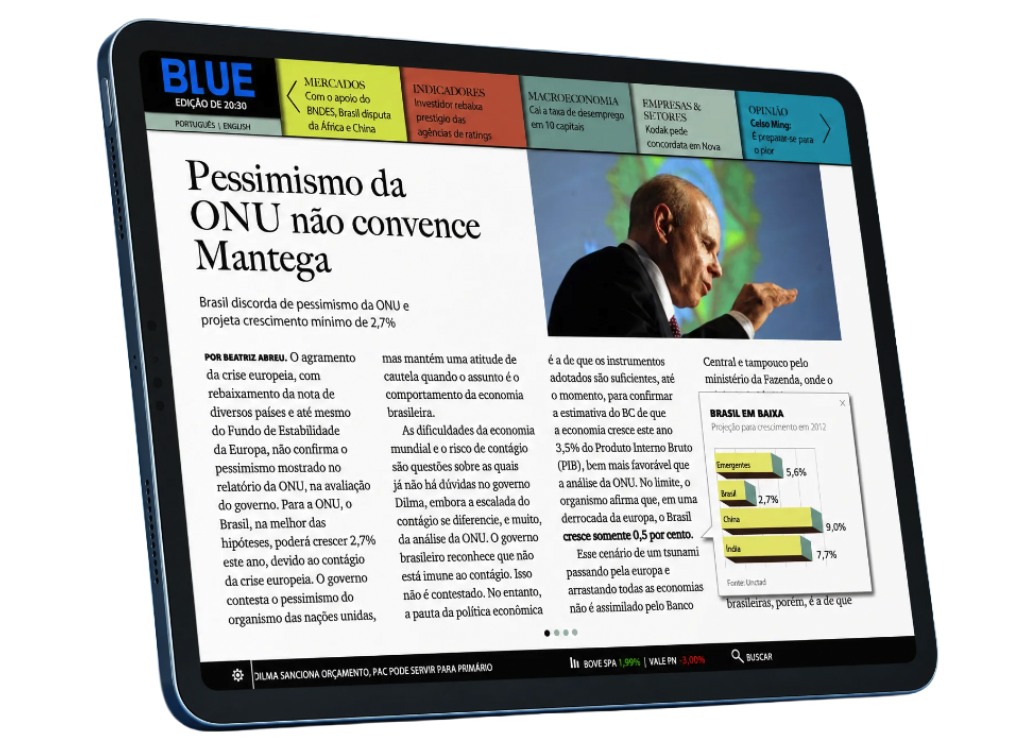
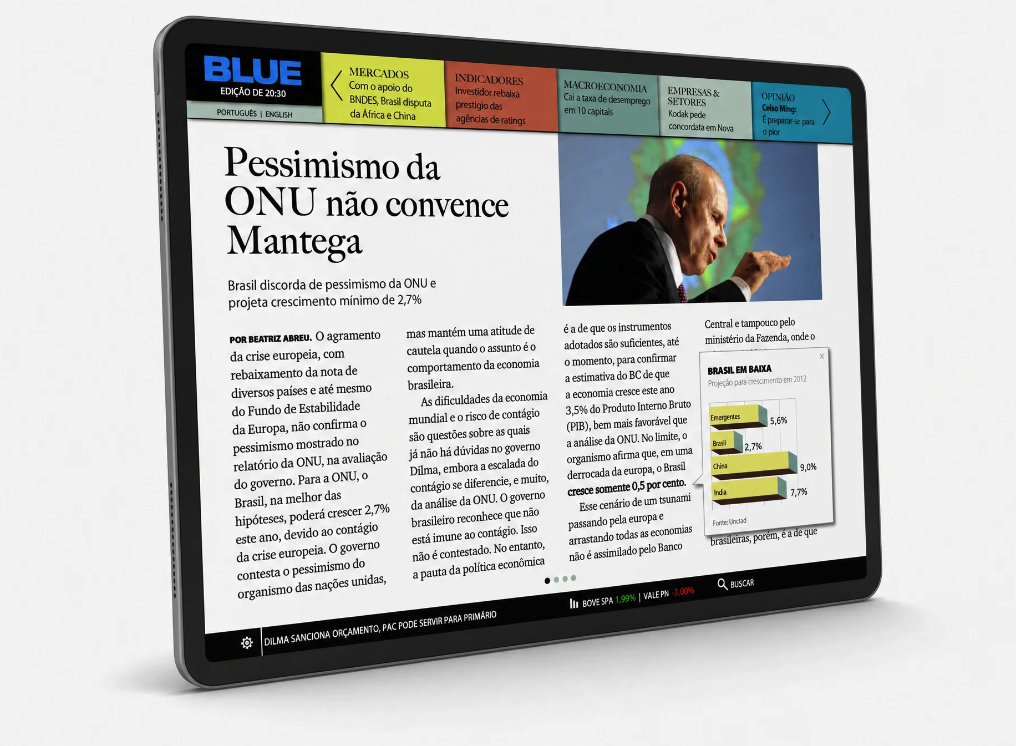
Add editable eyebrows and refresh portfolio translations

diff --git a/src/lib/components/ArchieRenderer.svelte b/src/lib/components/ArchieRenderer.svelte
@@ -1,4 +1,5 @@
 <script>
+	import Eyebrow from '$lib/components/heading/Eyebrow.svelte';
 	import Title from '$lib/components/heading/Title.svelte';
 	import H1 from '$lib/components/heading/H1.svelte';
 	import H2 from '$lib/components/heading/H2.svelte';
@@ -251,6 +252,8 @@
 					<H1 value={blocoStr.replace(/^h1:\s*/i, '')} />
 				{:else if blocoStr.match(/^h2:\s*(.+)$/i)}
 					<H2 value={blocoStr.replace(/^h2:\s*/i, '')} />
+				{:else if blocoStr.match(/^chapeu:\s*(.+)$/i)}
+					<Eyebrow value={blocoStr.replace(/^chapeu:\s*/i, '')} />
 				{:else if blocoStr.match(/^h3:\s*(.+)$/i)}
 					<H3 value={blocoStr.replace(/^h3:\s*/i, '')} />
 				{:else if blocoStr.match(/^h4:\s*(.+)$/i)}
@@ -378,6 +381,8 @@
 												.filter(Boolean)
 										}}
 									/>
+								{:else if item.type === 'eyebrow'}
+									<Eyebrow value={item.text} />
 								{:else if item.type === 'heading'}
 									{#if item.level === 1}
 										<H1 value={item.text || ''} />
@@ -515,7 +520,7 @@
 					{/key}
 				{:else if typeof bloco === 'object' && bloco.imagemTexto}
 					{@const conf = bloco.imagemTexto}
-					<ImageText src={withBase(`/imgs/${conf.imagem}`, base)} alt={conf.alt || conf.titulo || ''} title={conf.titulo || ''} text={conf.texto || ''} tags={obj.tags || []} imageRight={conf.lado === 'direita'} classes={conf.classes || ''} />
+					<ImageText src={withBase(`/imgs/${conf.imagem}`, base)} alt={conf.alt || conf.titulo || ''} title={conf.titulo || ''} eyebrow={conf.chapeu || ''} text={conf.texto || ''} tags={obj.tags || []} imageRight={conf.lado === 'direita'} classes={conf.classes || ''} />
 				{:else if typeof bloco === 'object' && bloco.scrollerVideo}
 					{#key i}
 						{@const conf = bloco.scrollerVideo}

diff --git a/src/lib/parsers/content.js b/src/lib/parsers/content.js
@@ -27,6 +27,11 @@ export function normalizeParsedToBlocks(usedParsed) {
 	// Build array of block descriptors from freeform blocks array
 export function buildBlockObjects(blocks) {
 	if (!blocks || !blocks.length) return [];
+	blocks = blocks.flatMap((block) =>
+		typeof block === 'string' && /^chapeu:[^\r\n]+\r?\n/i.test(block.trim())
+			? block.split(/\r?\n(?=\s*h[1-5]:)/i)
+			: [block]
+	);
 	const objs = [];
 	function parseBlocoInner(inner) {
 		const bloco = { items: [], tags: [] };
@@ -35,6 +40,15 @@ export function buildBlockObjects(blocks) {
 			const rawLine = inner[k];
 			const line = String(rawLine).trim().replace(/^\ufeff/, '');
 			if (/^\{\.?bloco\}$/i.test(line)) continue;
+			const eyebrowMatch = line.match(/^chapeu:\s*(.+)$/i);
+			if (eyebrowMatch) {
+				if (textLines.length) {
+					bloco.items.push({ type: 'text', text: textLines.join('\n') });
+					textLines = [];
+				}
+				bloco.items.push({ type: 'eyebrow', text: eyebrowMatch[1].trim() });
+				continue;
+			}
 			const headingMatch = line.match(/^h([1-5]):\s*(.+)$/i);
 			if (headingMatch) {
 				if (textLines.length) {
@@ -1074,7 +1088,7 @@ export function buildBlockObjects(blocks) {
 		function isTextParagraphString(value) {
 			const s = String(value || '').trim();
 			if (!s) return false;
-			if (/^h[1-5]:\s*/i.test(s)) return false;
+			if (/^(?:h[1-5]|chapeu):\s*/i.test(s)) return false;
 			if (/^<divisor\b/i.test(s)) return false;
 			if (/^\{divisor\}$/i.test(s)) return false;
 			if (/^<tagSelector\b/i.test(s) || /^tagSelector(?:\s*:\s*)?/i.test(s)) return false;

diff --git a/src/lib/components/imageText.test.js b/src/lib/components/imageText.test.js
@@ -30,5 +30,14 @@ it('allows the Tapuiassauro spread to use the reversed desktop layout', () => {
  expect(conf.classes).toBe('shadow-1');
  const { body } = render(ImageText, { props: { imageRight: conf.lado === 'direita', title: conf.titulo, text: conf.texto } });
  expect(body).toContain('image-right');
- expect(body).toContain('Tapuiassauro — Malofiej Gold Medal');
+ expect(body).toContain(conf.titulo);
+});
+
+it('renders the optional imagemTexto eyebrow before its title', () => {
+ const [block] = buildBlockObjects(['{imagemtexto}\nimagem: a.png\nchapeu: Editorial\ntitulo: Project\n{}']);
+ const conf = block.raw.imagemTexto;
+ const { body } = render(ImageText, { props: { eyebrow: conf.chapeu, title: conf.titulo } });
+ expect(body).toContain('class="eyebrow');
+ expect(body.indexOf('Editorial')).toBeLessThan(body.indexOf('<h3'));
+ expect(render(ImageText, { props: { title: 'Project' } }).body).not.toContain('class="eyebrow');
 });

diff --git a/src/lib/parsers/content.test.js b/src/lib/parsers/content.test.js
@@ -46,3 +46,18 @@ it('places credits after the description and links without crossing into another
  const ownFooter = annotateBlocks([{ raw: { imagemTexto: {} }, tags: ['design'] }]);
  expect(ownFooter[0].footerTags).toBeUndefined();
 });
+
+ it('parses an editable eyebrow inside a content block', () => {
+  const result = buildBlockObjects(['{bloco}\nchapeu: Blue\nh4: New interaction\n{}']);
+  expect(result[0].raw.bloco.items).toEqual([
+   { type: 'eyebrow', text: 'Blue' },
+   { type: 'heading', level: 4, text: 'New interaction' }
+  ]);
+ });
+
+ it('accepts an eyebrow and heading on consecutive lines outside a block', () => {
+  for (const separator of ['\n', '\r\n']) {
+   const result = buildBlockObjects([`chapeu: ATBL${separator}h4: Product title`]);
+   expect(result.map(item => item.raw)).toEqual(['chapeu: ATBL', 'h4: Product title']);
+  }
+ });

diff --git a/src/routes/admin/+page.svelte b/src/routes/admin/+page.svelte
@@ -347,11 +347,19 @@
 				}}
 			></textarea>
 			<details>
+				<summary>Chapéu antes do título</summary>
+				<pre>{`chapeu: Blue
+
+h4: Designing for a New Interaction Model`}</pre>
+				<p>Escreva o chapéu antes do título, com ou sem linha em branco entre eles. O chapéu usa a cor primária do tema.</p>
+			</details>
+			<details>
 				<summary>Imagem à esquerda e texto à direita</summary>
 				<p>No celular, a imagem aparece acima do texto. Use &lt;br&gt;&lt;br&gt; para separar parágrafos no campo texto. Adicione <code>lado: direita</code> para colocar a imagem à direita no desktop.</p>
 				<pre>{`{imagemTexto}
   imagem: favela_amazonia.png
   alt: Descrição da imagem
+  chapeu: Nome do projeto
   titulo: Título do projeto
   texto: Texto do projeto.<br><br>Outro parágrafo.
   tags: Editorial Design, Storytelling

diff --git a/src/lib/components/ImageText.svelte b/src/lib/components/ImageText.svelte
@@ -1,12 +1,14 @@
 <script>
 	import ImageBlock from './image/ImageBlock.svelte';
 	import H3 from './heading/H3.svelte';
+	import Eyebrow from './heading/Eyebrow.svelte';
 	import Text from './text/Text.svelte';
 	import InlineTags from './InlineTags.svelte';
 
 	export let src = '';
 	export let alt = '';
 	export let title = '';
+	export let eyebrow = '';
 	export let text = '';
 	export let tags = [];
 	export let imageRight = false;
@@ -16,6 +18,7 @@
 <section class="image-text" class:image-right={imageRight}>
 	<div class="visual"><ImageBlock {src} {alt} {classes} size="GG" /></div>
 	<div class="copy">
+		{#if eyebrow}<Eyebrow value={eyebrow} />{/if}
 		<H3 value={title} />
 		<Text value={{ body: text }} />
 		{#if tags.length}

diff --git a/src/lib/components/heading/Eyebrow.svelte b/src/lib/components/heading/Eyebrow.svelte
@@ -1,0 +1,20 @@
+<script>
+ export let value = '';
+</script>
+
+<p class="eyebrow">{value}</p>
+
+<style>
+ .eyebrow {
+  font-family: var(--font-primary);
+  font-size: calc(var(--grid) * 1.5);
+  font-weight: 600;
+  line-height: 1.3;
+  letter-spacing: .06em;
+  text-transform: uppercase;
+  color: var(--color-primary);
+  width: calc(100% - (var(--grid) * 4));
+  max-width: calc(var(--grid) * 50);
+  margin: 0 auto calc(var(--grid) * .8);
+ }
+</style>

diff --git a/src/lib/i18n.test.js b/src/lib/i18n.test.js
@@ -15,5 +15,5 @@ test('Portuguese preserves media, notation, links and English source', () => {
     }
   }
   expect(translateContent(pages.index.content, 'pt')).toContain('Olá, sou');
-  expect(translateContent(pages.archive.content, 'pt')).toContain('h1: Acervo');
+  expect(translateContent(pages.archive.content, 'pt')).toContain('h1: Um olhar mais amplo');
 });

diff --git a/src/lib/components/TagSelector.svelte b/src/lib/components/TagSelector.svelte
@@ -119,7 +119,7 @@
     }
 	@media (min-width: 900px) {
 		.tag-selector {
-			max-width: 875px;
+			max-width: 600px;
 		}
 	}
 </style>
